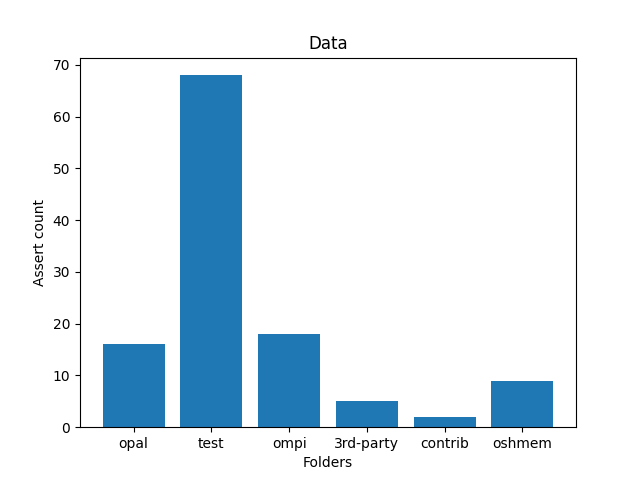
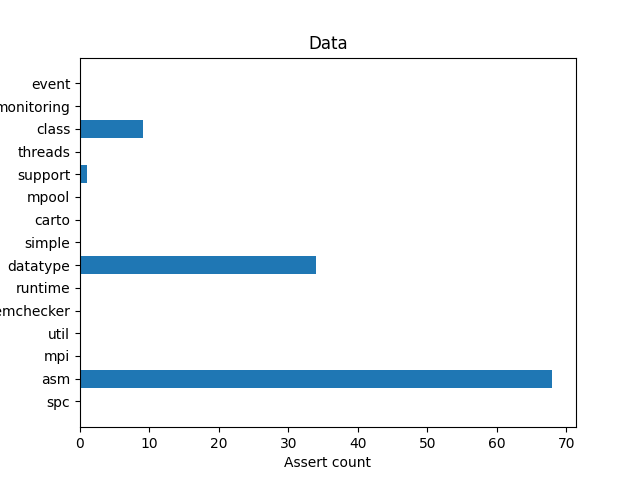
test folder files & changed bar plot

diff --git a/count.py b/count.py
@@ -11,29 +11,36 @@ import matplotlib.pyplot as plt
 
 def is_file(filepath):
     print(filepath)
-    file = open(filepath, 'r', encoding='utf-8')
     assert_count = 0
-    if ".DS_Store" not in filepath and filepath.endswith(".c"):
+    if ".DS_Store" not in filepath and (filepath.endswith(".c") or filepath.endswith(".h") or filepath.endswith(".sh")):
+        file = open(filepath, 'r', encoding='utf-8')
+        # assert_count = 0 if ".DS_Store" not in filepath and (filepath.endswith(".c") or filepath.endswith(".h") or
+        # filepath.endswith(".sh")) :
         lines = file.readlines()
 
         for line in lines:
             if re.search(r'^\s*.(assert\(.*\))', line):
                 assert_count = assert_count + 1
+    else:
+        return -1
     return assert_count
 
 
-def is_directory(dir, f):
+def is_directory(dir, subdir, f):
     list = []
     for filename in os.listdir(f):
         filepath = os.path.join(f, filename)
         print(filepath)
         if os.path.isfile(filepath):
+            print("hello")
             assert_count = is_file(filepath)
-            if assert_count != 0:
-                list1 = [filepath, dir, filename, assert_count]
+            if assert_count != -1:
+                # if assert_count != 0:
+                list1 = [filepath, dir, subdir, filename, assert_count]
                 list.append(list1)
         elif os.path.isdir(filepath):
-            list = is_directory(dir, filepath)
+
+            list = is_directory(dir, subdir, filepath)
 
     return list
 
@@ -43,42 +50,43 @@ with open('assert_count.csv', 'w', encoding='utf8', newline='') as csvfile:
         print("root is..", root)
         print("dirs is...", dirs)
         print("files is..", files)
-        header = ['Path', 'Directory', 'File Name', 'Assert count']
+        header = ['Path', 'Directory', 'Sub Directory', 'File Name', 'Assert count']
         writer = csv.writer(csvfile)
         writer.writerow(header)
 
         for dir in dirs:
             print("dir is...", dir)
-            test_path = root + "/" + dir
-            for subdir in os.listdir(test_path):
-                f = os.path.join(test_path, subdir)
-                print(f)
-                if os.path.isdir(f):
+            if dir == 'test':
+                test_path = root + "/" + dir
+                for subdir in os.listdir(test_path):
+                    f = os.path.join(test_path, subdir)
+                    print(f)
+                    if os.path.isdir(f):
 
-                    list = is_directory(dir, f)
+                        list = is_directory(dir, subdir, f)
 
-                    writer.writerows(list)
+                        writer.writerows(list)
 
-                elif os.path.isfile(f):
-                    assert_count = is_file(f)
-                    if assert_count != 0:
-                        writer.writerow([f, "", f, assert_count])
+                    elif os.path.isfile(f):
+                        if f.endswith(".c") or f.endswith(".h") or f.endswith(".sh"):
+                            assert_count = is_file(f)
+                            if assert_count != -1:
+                                writer.writerow([f, dir, subdir, subdir, assert_count])
 
         break
 
 data = pd.read_csv("assert_count.csv")
-dirs = data["Directory"]
+dirs = data["Sub Directory"]
 count = data["Assert count"]
 
 x = []
 y = []
 x = dirs
 y = count
-plt.bar(x, y)
-plt.xlabel('Folders')
-plt.ylabel('Assert count')
+plt.barh(x, y)
+plt.xlabel('Assert count')
+plt.ylabel('Folders')
 plt.title('Data')
 
 plt.savefig("assert_plot.png")
 plt.show()
-
